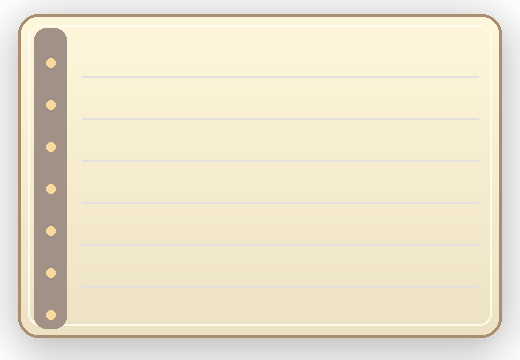
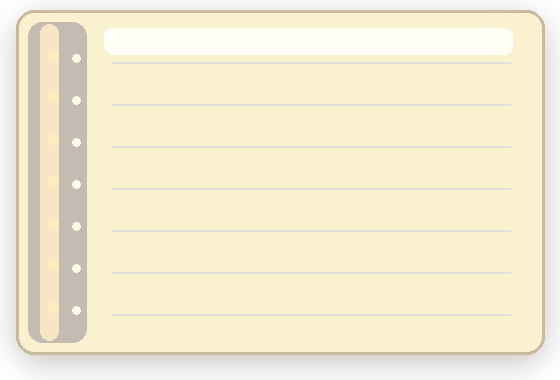
Refine v26 UI assets

Changed region(s): [[0.0308, 0.0, 0.9846, 0.9472]]

diff --git a/htmlDemo简单互动玩法/宝石鉴定html_v26RealAsset版.html b/htmlDemo简单互动玩法/宝石鉴定html_v26RealAsset版.html
@@ -2012,10 +2012,11 @@
         display:none;
     }
     body.v26-real-asset .notebook-card{
-        width:236px;
+        width:252px;
         min-height:168px;
         border:0;
         border-left:0;
+        padding-left:46px;
         background:
             linear-gradient(rgba(255,250,226,.68), rgba(255,250,226,.68)),
             var(--v26-notebook) center / 100% 100% no-repeat;
@@ -2100,9 +2101,14 @@
         background:var(--v26-mouse-right) center / contain no-repeat;
     }
     body.v26-real-asset .lens-scroll-cue{
-        width:54px;
-        height:62px;
+        width:96px;
+        height:112px;
         background:var(--v26-mouse-wheel) center / contain no-repeat;
+        animation:v26WheelFloat 1.25s ease-in-out infinite;
+    }
+    @keyframes v26WheelFloat{
+        0%,100%{ transform:translate(-50%, -50%) translateY(-8px); }
+        50%{ transform:translate(-50%, -50%) translateY(8px); }
     }
     body.v26-real-asset .plate{
         border:0;
@@ -2277,9 +2283,9 @@ const TOOL_NOTES = {
     clean:"擦净后闪光收纳"
 };
 const LENSES = [
-    { key:"A", label:"Lens A", filter:"rgba(127,223,255,.28)" },
-    { key:"B", label:"Lens B", filter:"rgba(214,156,255,.28)" },
-    { key:"C", label:"Lens C", filter:"rgba(151,232,163,.28)" }
+    { key:"A", label:"表层镜", filter:"rgba(127,223,255,.28)" },
+    { key:"B", label:"透光镜", filter:"rgba(214,156,255,.28)" },
+    { key:"C", label:"裂隙镜", filter:"rgba(151,232,163,.28)" }
 ];
 const FACES = ["Face 1","Face 2","Face 3"];
 const SHAPE_TARGETS = ["circle", "triangle", "square"];
@@ -2549,10 +2555,11 @@ function createPlateItem(id, existingItems = state.plateItems || []){
 }
 function randomPlatePosition(existingItems = []){
     const attempts = existingItems.length > 34 ? 12 : 42;
+    const safeRadius = 31;
     let best = null;
     let bestScore = -Infinity;
     for(let i = 0; i < attempts; i++){
-        const radius = Math.sqrt(Math.random()) * 40;
+        const radius = Math.sqrt(Math.random()) * safeRadius;
         const angle = Math.random() * Math.PI * 2;
         const point = {
             x:50 + Math.cos(angle) * radius,
@@ -2560,8 +2567,8 @@ function randomPlatePosition(existingItems = []){
         };
         const nearest = existingItems.length
             ? Math.min(...existingItems.map(item=>Math.hypot(point.x - (item.x ?? 50), point.y - (item.y ?? 50))))
-            : 40;
-        const edgeComfort = 40 - Math.hypot(point.x - 50, point.y - 50);
+            : safeRadius;
+        const edgeComfort = safeRadius - Math.hypot(point.x - 50, point.y - 50);
         const score = nearest + edgeComfort * .08;
         if(score > bestScore){
             best = point;
@@ -2573,12 +2580,13 @@ function randomPlatePosition(existingItems = []){
 function circularPlatePositions(count){
     if(count <= 1) return [{ x:50, y:50 }];
     const positions = [];
+    const safeRadius = 31;
     let rings = 1;
     while(1 + rings * 6 + Math.max(0, rings - 1) * 6 < count && rings < 5) rings += 1;
-    const rowGap = 82 / Math.max(4, rings * 2 + 2);
+    const rowGap = (safeRadius * 2) / Math.max(4, rings * 2 + 2);
     for(let row = -rings; row <= rings; row++){
         const y = 50 + row * rowGap;
-        const xSpan = Math.sqrt(Math.max(0, 40 * 40 - (y - 50) * (y - 50)));
+        const xSpan = Math.sqrt(Math.max(0, safeRadius * safeRadius - (y - 50) * (y - 50)));
         const cells = Math.max(1, Math.floor((xSpan * 2) / rowGap));
         for(let col = 0; col < cells; col++){
             const x = cells === 1 ? 50 : 50 - xSpan + (xSpan * 2) * (col / (cells - 1));

diff --git a/htmlDemo简单互动玩法/codex_handoff_宝石鉴定原型.md b/htmlDemo简单互动玩法/codex_handoff_宝石鉴定原型.md
@@ -682,3 +682,25 @@ Q/E 只在这三个工具中循环：
 
 - 继续逐区精修真实 asset，优先顺序建议为：`ui_lens_frame`、`ui_tool_box`、`ui_left_inventory`、`ui_reward_plate`。
 - 目前 v26 是“首版拼装皮肤”，核心玩法逻辑沿用 v25；如果要继续打磨，不要直接改 v25。
+# 2026-05-22 13:58 +08:00 Codex 1 号交接补充
+
+`v26RealAsset` 本轮继续精修 UI。
+
+用户问题答复：
+
+- 现在 HTML 中素材均为本地相对链接，没有 GitHub 图片 URL。
+- 风格已明确的区域：镜片 A、左栏 A、整体明度 A、色彩 A、工具盒 C、奖励盘 C、工具模型 C、笔记本 C、右上镜片说明 C。
+- 尚未完全定稿的风格区域：底盘表演层、瑕疵层是否未来也全量图片化。
+
+本轮修正：
+
+- 笔记本内容向右移动，配合重绘后的 `ui_center_notebook/notebook_page_C.png` 给左侧装订留空。
+- Lens 名称从 `Lens A/B/C` 改为 `表层镜 / 透光镜 / 裂隙镜`。
+- 奖励盘散落范围收紧，随机落点和整理排布都使用更小安全半径，避免宝石超出盘子范围。
+- 重绘 `ui_reward_plate/reward_plate_base_C.png`，让盘内安全区域更清楚。
+- 下滚轮提示 UI 放大，并加入上下浮动动画。
+- `ui_v26_asset_contact_sheet.png` 已更新。
+
+验证：
+
+- v26 内联脚本已重新通过 Node `--check`。

diff --git a/htmlDemo简单互动玩法/codex_changelist_宝石鉴定v24.md b/htmlDemo简单互动玩法/codex_changelist_宝石鉴定v24.md
@@ -144,3 +144,25 @@
 
 - 已抽取 v26 HTML 内联 `<script>` 并通过 Node `--check` 语法检查。
 - 已用本机 Chrome headless 打开本地 `file:///` 页面并生成首屏截图 `assets/ui_v26/v26_playtest_screenshot.png`，确认首屏 asset 能渲染。
+## 2026-05-22 13:58 +08:00 - Codex 1 号
+
+本轮继续精修 `v26RealAsset` UI asset 与布局。
+
+主文件：
+
+- `宝石鉴定html_v26RealAsset版.html`
+
+改动：
+
+- 回答并确认：当前 v26 素材全部使用本地相对链接，例如 `assets/ui_v26/...`，没有使用 GitHub raw URL。
+- 风格未明确区域记录：底盘表演层、瑕疵层未来是否全量图片化还未定，本轮暂不扩展。
+- 笔记本 asset `ui_center_notebook/notebook_page_C.png` 重绘，左侧装订留白更明显；HTML 中 v26 笔记本内容整体右移。
+- Lens A/B/C 文案改为 `表层镜`、`透光镜`、`裂隙镜`。
+- 奖励盘 asset `ui_reward_plate/reward_plate_base_C.png` 重绘，内圈更收拢。
+- 奖励盘散落坐标安全半径从 40 收到 31，整理盘子的圆盘排布也同步收紧，避免宝石压出盘沿。
+- 下滚轮提示 UI 在 v26 中放大到 96×112，并增加上下浮动动画。
+- 更新 `ui_v26_asset_contact_sheet.png`。
+
+验证：
+
+- 已重新抽取 v26 HTML 内联 `<script>` 并通过 Node `--check`。
